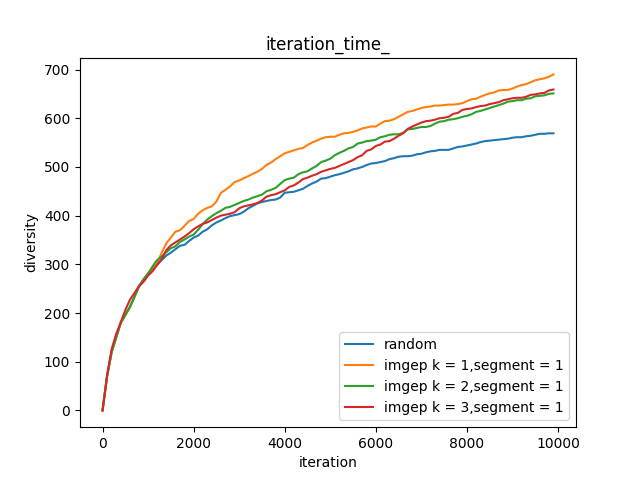
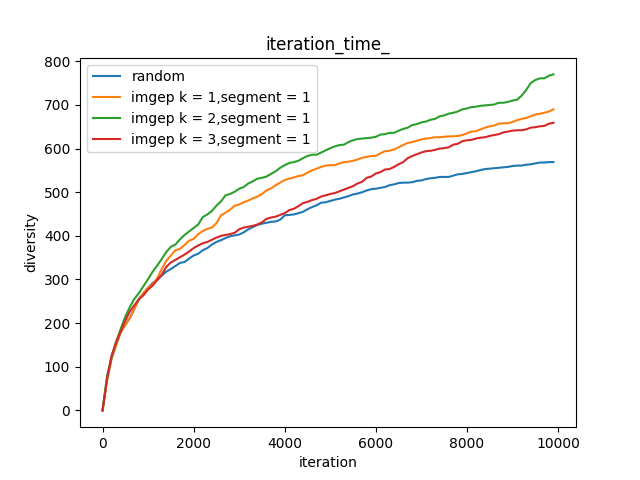
update max number of instructions

diff --git a/make_visu.py b/make_visu.py
@@ -32,24 +32,22 @@ if __name__=='__main__':
     content_rand = load(name)
     images = 'images_non_excl'
 
-    for k in [1,2,3]:
-        for s in [1]:  
-            name = f'{folder}/imgep_run_{k}_{N}_s_{s}'
-            content_imgep = load(name)
-            #plot_time_diversity_plotly(content_rand,content_imgep, f'{images}/time_k_{k}_s_{s}_plotly', show=False)
+    #for k in []:
+    #    for s in [1]:  
+    #        name = f'{folder}/imgep_run_{k}_{N}_s_{s}'
+    #        content_imgep = load(name)
+    #        #plot_time_diversity_plotly(content_rand,content_imgep, f'{images}/time_k_{k}_s_{s}_plotly', show=False)
 
     diversity_time_iteration2([(content_rand['memory_perf'],'random')]+[(load(f'{folder}/imgep_run_{k}_{N}_s_{s}')['memory_perf'],f'imgep k = {k},segment = {s}') for k in [1,2,3] for s in [1]], title=f'iteration_time_',folder=images)
     arg_list = [('random',content_rand['memory_perf'])]+[(f'imgep k = {k},segment = {s}',load(f'{folder}/imgep_run_{k}_{N}_s_{s}')['memory_perf']) for k in [1,2,3] for s in [1]]
 
     comparaison_ratios_iterations(arg_list,name=f'{images}/comparaison_iteration_ddr_miss_ratio',num_rows=7)
     
-    for k in [1,2,3]:
+    for k in [1,3]:
         for s in [1]:  
             name = f'{folder}/imgep_run_{k}_{N}_s_{s}'
             content_imgep = load(name)
             plot_ddr_miss_ratio_diversity(content_rand['memory_perf'],content_imgep['memory_perf'], name=f'{images}/miss_ratios_k_{k}_s_{s}', show=False,num_row=7)
             plot_ddr_miss_ratio_diversity(content_rand['memory_perf'],content_imgep['memory_perf'], name=f'{images}/miss_ratios_k_{k}_s_{s}', show=False,num_row=7)
             hist_diversity(content_rand['memory_perf'],content_imgep['memory_perf'], name=f'{images}/time_k_{k}_s_{s}',num_row=7,title=f'diveristy ddr miss ratio for imgep k={k}. mutual vs isolation')
-            #comparaison_ratios_iterations([('random',content_rand['memory_perf']),('imgep',content_imgep['memory_perf'])],name=f'{images}/comparaison_iteration_ddr_miss_ratio_{k}_{s}',num_rows=7)
-            #diversity_time_iteration(content_rand['memory_perf'],content_imgep['memory_perf'],title=f'iteration_time_{k}_{s}')
             plot_time_diversity(content_rand['memory_perf'],content_imgep['memory_perf'], f'{images}/time_k_{k}_s_{s}', show=False)

diff --git a/exploration/imgep/OptimizationPolicy2.py b/exploration/imgep/OptimizationPolicy2.py
@@ -27,6 +27,7 @@ class OptimizationPolicykNN(Features):
                 min_address_core1 = 11,
                 max_address_core1 = 21,
                 segment_method=True,
+                num_instructions=None,
                 ):
         super().__init__()
         self.segment_method = segment_method
@@ -39,6 +40,7 @@ class OptimizationPolicykNN(Features):
         self.max_cycle = max_cycle
         self.num_bank = num_bank #this attribute is used by Features
         self.num_addr = num_addr
+        self.num_instructions = num_instructions
 
     def __call__(self,goal:np.ndarray,H:History,cond:np.ndarray=None)->dict:
         closest_codes = self.select_closest_codes(H,goal,cond) #most promising sample from the history
@@ -58,6 +60,7 @@ class OptimizationPolicykNN(Features):
         a = np.array([goal]).reshape(1,-1)#size (dim,N), N=1 individual
         max_ = elements.max(axis=0)
         w = 1.0/((max_>1.0)*max_+ (max_<=1.0)*1.0)
+        w = w/np.sum(w)
         w = w.reshape((1,-1))
         out = np.sum(w*(a -elements)**2,axis=1)
         return out
@@ -78,6 +81,6 @@ class OptimizationPolicykNN(Features):
             output["program"]["core1"].append(H.memory_program["core1"][id_])
         return output
     def light_code_mutation(self,programs:dict[list[dict]]):
-        mutated0 = mutate_instruction_sequence(programs['core0'][0],num_mutations=self.num_mutations,max_cycle=self.max_cycle,min_address=self.min_address_core0,max_address=self.max_address_core0)
-        mutated1 = mutate_instruction_sequence(programs['core1'][0],num_mutations=self.num_mutations,max_cycle=self.max_cycle,min_address=self.min_address_core1,max_address=self.max_address_core1)
+        mutated0 = mutate_instruction_sequence(programs['core0'][0],num_mutations=self.num_mutations,max_cycle=self.max_cycle,min_address=self.min_address_core0,max_address=self.max_address_core0,num_instructions=self.num_instructions)
+        mutated1 = mutate_instruction_sequence(programs['core1'][0],num_mutations=self.num_mutations,max_cycle=self.max_cycle,min_address=self.min_address_core1,max_address=self.max_address_core1,num_instructions=self.num_instructions)
         return {'core0':mutated0,'core1':mutated1}

diff --git a/exploration/history.py b/exploration/history.py
@@ -17,6 +17,7 @@ class History:
         self.hist_vec = []
         self.diversity_vec = 0
         self.reward_vec = [0]
+        self.interleaving = np.zeros((self.capacity,4))
     def as_tab(self):
         return np.array(self.tab)
     def __len__(self):
@@ -73,6 +74,7 @@ class History:
                             if event['type']=='DDR_MEMORY_CONTENTION':
                                 self.shared_resource_list.append(shared_resource2vec(event,self.env))
                                 self.shared_resource_coords.append({'program':self.j,'cycle':event['cycle']})
+                                self.interleaving[self.j] +=shared_resource2vec(event,self.env)[1:5]
         #array that counts diversity for every axis
         current_diversity_array = np.concatenate(observation_diversity_vec)
         #synthetizes an array with all observations, usefull for exploration.
@@ -110,7 +112,8 @@ class History:
                 "memory_program":{"core0":self.memory_program["core0"],"core1":self.memory_program["core1"]},
                 "reward":self.reward_vec,
                 "diversity_vec":self.diversity_vec,
-                "tabular_view":self.as_tab()
+                "tabular_view":self.as_tab(),
+                "interleaving":self.interleaving,
                 }
     def save_pickle(self, name:str=None):
         k = 0
@@ -131,8 +134,8 @@ class History:
 
 
 def shared_resource2vec(in_,E):
-    count_banks = np.histogram(in_['details']['banks'],bins = range(E.num_banks+1))[0]/len(in_['details']['banks'])
-    count_rows = np.histogram(in_['details']['rows'],bins = range(E.num_rows+1))[0]/len(in_['details']['banks'])
+    count_banks = np.histogram(in_['details']['banks'],bins = range(E.num_banks+1))[0]#/len(in_['details']['banks'])
+    count_rows = np.histogram(in_['details']['rows'],bins = range(E.num_rows+1))[0]#/len(in_['details']['banks'])
     ratios_core = np.array([sum(np.array(in_['initiators'])==1)/len(in_['initiators'])])
     conflicts = np.array([1*in_['details']['bank_conflicts'],1*in_['details']['row_conflicts']])
     out = np.concatenate((ratios_core,count_banks,count_rows,conflicts),axis=0)

diff --git a/test_imgep2.py b/test_imgep2.py
@@ -8,7 +8,6 @@ from simulator.sim3 import print_contention_analysis
 import pandas as pd
 from exploration.history import History
 
-from visualisation.visu import plot_ddr_miss_ratio_diversity, plot_time_diversity
 import os
 
 
@@ -29,7 +28,14 @@ if __name__=="__main__":
     min_address_core1 = 49
     max_address_core0 = 50
     max_address_core1 = 100
-    folder = 'non_exclusive_axis_exploration'
+    num_instructions = 10
+    folder = 'non_exclusive_axis_exploration2'
+    E =Env(400,num_addr=100)
+    H_rand = History(env=E,capacity=N)
+    random = RANDOM(N,E,H_rand,min_address_core0,max_address_core0,min_address_core1,max_address_core1,num_instructions)
+    random()
+    H_rand.save_pickle(f'{folder}/rand_run_{N}')
+    exit()
     for segment_method in [True]:
         for k in k_values:
             print('k',k)
@@ -41,13 +47,15 @@ if __name__=="__main__":
                     min_address_core0=min_address_core0,
                     max_address_core0=max_address_core0,
                     min_address_core1=min_address_core1,
-                    max_address_core1=max_address_core0)
+                    max_address_core1=max_address_core0,
+                    num_instructions=num_instructions)
             goal_generator = G()
             imgep = IMGEP(N,N_init,E,H,goal_generator,Pi, periode = periode,
                           min_address_core0=min_address_core0,
                           max_address_core0=max_address_core0,
                           min_address_core1=min_address_core1,
-                          max_address_core1=max_address_core1)
+                          max_address_core1=max_address_core1,
+                          num_instructions=num_instructions)
             imgep()
             s = 1 if segment_method else 0
             H.save_pickle(f'{folder}/imgep_run_{k}_{N}_s_{s}')

diff --git a/exploration/random/func.py b/exploration/random/func.py
@@ -11,11 +11,15 @@ import time
 
 
 class RANDOM:
-    def __init__(self,N:int,E:Env,H:History,
+    def __init__(self,
+                    N:int,
+                    E:Env,
+                    H:History,
                     min_address_core0 = 0 ,
                     max_address_core0 = 10,
                     min_address_core1 = 11,
-                    max_address_core1 = 21
+                    max_address_core1 = 21,
+                    num_instructions = None,
 
             ):
         """
@@ -32,13 +36,14 @@ class RANDOM:
         self.max_address_core0 = max_address_core0
         self.min_address_core1 = min_address_core1
         self.max_address_core1 = max_address_core1
+        self.num_instructions = num_instructions
     def __call__(self):
         start_time = time.time()
         for i in range(self.N):
             if i%1000==0 or i==self.N-1:
                 print(f'step {i}/{self.N-1}')
-            code0 = generate_instruction_sequence(None,max_cycle = self.max_cycle,min_address=self.min_address_core0,max_address = self.max_address_core0)
-            code1 = generate_instruction_sequence(None,max_cycle = self.max_cycle,min_address=self.min_address_core1,max_address = self.max_address_core1)
+            code0 = generate_instruction_sequence(self.num_instructions,max_cycle = self.max_cycle,min_address=self.min_address_core0,max_address = self.max_address_core0)
+            code1 = generate_instruction_sequence(self.num_instructions,max_cycle = self.max_cycle,min_address=self.min_address_core1,max_address = self.max_address_core1)
             parameter = {'core0':code0,
                         'core1':code1}
             self.H.store({"program":parameter}|self.env(parameter))

diff --git a/exploration/imgep/mutation.py b/exploration/imgep/mutation.py
@@ -1,7 +1,7 @@
 import random 
 import copy
 
-def mutate_instruction_sequence(instructions, num_mutations=1, max_cycle=60, min_address = 0,max_address=19):
+def mutate_instruction_sequence(instructions, num_mutations=1, max_cycle=60, min_address = 0,max_address=19,num_instructions=None):
     """
     Mutate an instruction sequence by adding, deleting, or modifying instructions.
     
@@ -61,8 +61,9 @@ def mutate_instruction_sequence(instructions, num_mutations=1, max_cycle=60, min
                 new_type = 'write' if old_type == 'read' else 'read'
                 new_address = random.randint(min_address, max_address)
                 mutated[cycle_to_modify] = (new_type, new_address)
-    
+    if num_instructions:
+        mutated = {key:mutated[key] for j,key in enumerate(mutated) if j<num_instructions}
     return mutated
 
-def mutate_paire_instructions(programs0,programs1,num_mutations, max_cycle=60, max_address=19):
-    return mutate_instruction_sequence(programs0,num_mutations,max_cycle = max_cycle,max_address=max_address),mutate_instruction_sequence(programs1,num_mutations,max_cycle = max_cycle,max_address=max_address)
+def mutate_paire_instructions(programs0,programs1,num_mutations, max_cycle=60, max_address=19,num_instructions=None):
+    return mutate_instruction_sequence(programs0,num_mutations,max_cycle = max_cycle,max_address=max_address,num_instructions=num_instructions),mutate_instruction_sequence(programs1,num_mutations,max_cycle = max_cycle,max_address=max_address,num_instructions=num_instructions)

diff --git a/exploration/imgep/goal_generator2.py b/exploration/imgep/goal_generator2.py
@@ -6,21 +6,28 @@ from exploration.history import History
 class GoalGenerator:
     def __init__(self,
                  ):
-        self.nb_elem = 5
+        self.nb_elem = 2
+        self.j = 0
+        self.weight = 1.0
     def __call__(self,H:History,m:int)->np.ndarray:
         Tab = H.as_tab()
         dim = Tab.shape[1]
         min_ = Tab.min(axis=0)
         max_ = Tab.max(axis=0)
         cond = None
+        if self.j==0:
+            self.weight = (1.0/500)*max_*(max_>1)+max_*(max_<=1)
+            self.j+=1
         if m==0:
-            out = np.random.uniform(min_,2*max_*(max_>1)+max_*(max_<=1))
+            #out = np.random.uniform(min_,2*max_*(max_>1)+max_*(max_<=1))
+            out = np.random.uniform(min_,200*(max_>1)+max_*(max_<=1))
         else:
             if m==1:
                 cond = np.where(max_>1.0)[0]
                 min_2 = min_[cond]
                 max_2 = max_[cond]
-                out = np.random.uniform(min_2,2*max_2)
+                #out = np.random.uniform(min_2,2*max_2)
+                out = np.random.uniform(min_2,200)
             elif m==2:
                 cond = np.where(max_<=1.0)[0]
                 min_2 = min_[cond]

diff --git a/exploration/imgep/imgep2.py b/exploration/imgep/imgep2.py
@@ -31,6 +31,7 @@ class IMGEP:
                 max_address_core0=10,
                 min_address_core1=11,
                 max_address_core1=21,
+                num_instructions = None,
                 ):
         self.N = N
         self.env = E
@@ -40,7 +41,8 @@ class IMGEP:
         self.Pi = Pi
         self.periode = periode
         self.start = 0
-        self.random_explor = RANDOM(self.N_init,self.env,self.H,min_address_core0,max_address_core0,min_address_core1,max_address_core1)
+        self.num_instructions = num_instructions
+        self.random_explor = RANDOM(self.N_init,self.env,self.H,min_address_core0,max_address_core0,min_address_core1,max_address_core1,self.num_instructions)
     def take(self,sample:dict,start:int): 
         """Takes the ``start`` first steps from the ``sample`` dictionnary to initialize the exploration. 
         Then the iterator i is set to ``start`` directly

diff --git a/codegeneration.py b/codegeneration.py
@@ -15,8 +15,7 @@ def generate_instruction_sequence(num_instructions=None, max_cycle=60, min_addre
     """
     if num_instructions is None:
         num_instructions = random.randint(1, 20)  # Random number of instructions
-    
-    # Ensure we don't generate more instructions than available cycles
+        # Ensure we don't generate more instructions than available cycles
     num_instructions = min(num_instructions, max_cycle + 1)
     
     instructions = {}

diff --git a/test_imgep.py b/test_imgep.py
@@ -35,8 +35,9 @@ if __name__=="__main__":
     H_rand = History(env=E,capacity=N)
     folder = 'exclusive_axis_exploration'
     random = RANDOM(N,E,H_rand,min_address_core0,max_address_core0,min_address_core1,max_address_core1)
-    #random()
-    #H_rand.save_pickle(f'{folder}/rand_run_{N}')
+    random()
+    H_rand.save_pickle(f'{folder}/rand_run_{N}')
+    #exit()
     for segment_method in [True]:
         for k in k_values:
             print('k',k)
